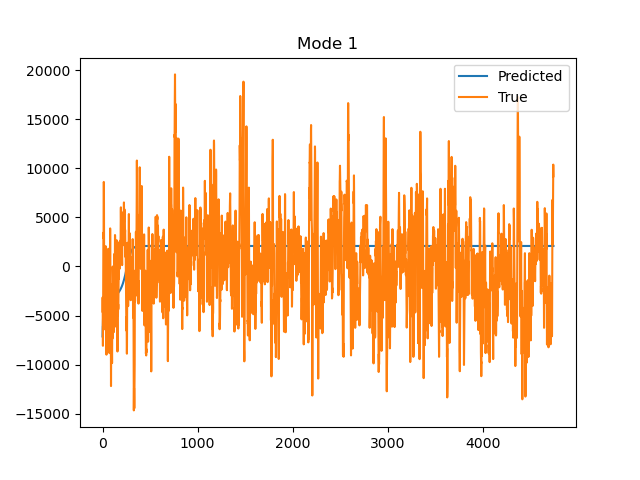
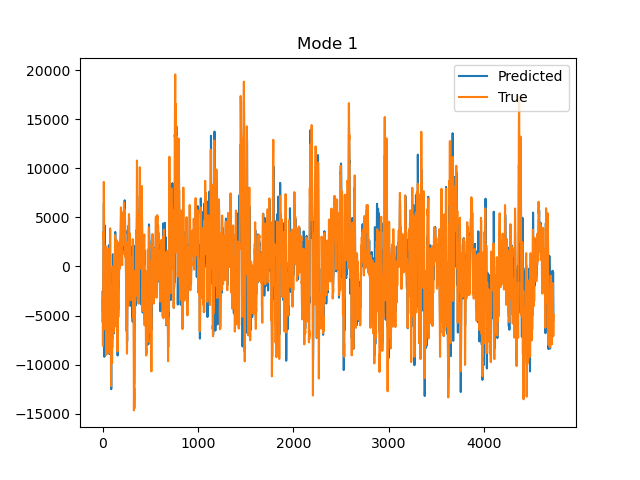
Added non autoregressive version of code

diff --git a/Z500/lstm_archs.py b/Z500/lstm_archs.py
@@ -38,15 +38,16 @@ class standard_lstm(Model):
 
         # Need to make minibatches
         self.seq_num = 7
-        self.total_size = np.shape(data)[0]-int(self.seq_num) # Limit of sampling
+        self.seq_num_op = 14
+        self.total_size = np.shape(data)[0]-int(self.seq_num_op)-int(self.seq_num) # Limit of sampling
 
         input_seq = np.zeros(shape=(self.total_size,self.seq_num,self.state_len))  #[samples,n_inputs,state_len]
-        output_seq = np.zeros(shape=(self.total_size,self.state_len)) #[samples,n_outputs,state_len]
+        output_seq = np.zeros(shape=(self.total_size,self.seq_num_op,self.state_len)) #[samples,n_outputs,state_len]
 
         snum = 0
         for t in range(0,self.total_size):
             input_seq[snum,:,:] = self.data[None,t:t+self.seq_num,:]
-            output_seq[snum,:] = self.data[None,t+self.seq_num,:]        
+            output_seq[snum,:] = self.data[None,t+self.seq_num:t+self.seq_num+self.seq_num_op,:]        
             snum = snum + 1
 
         # Shuffle dataset
@@ -74,16 +75,22 @@ class standard_lstm(Model):
         # Define architecture
         xavier=tf.keras.initializers.GlorotUniform()
         self.l1=tf.keras.layers.LSTM(50,return_sequences=True,input_shape=(self.seq_num,self.state_len))
-        self.l2=tf.keras.layers.LSTM(50,return_sequences=False)
+        # self.l1_transpose = tf.transpose(perm=[0,2,1])
+        self.l1_transform = tf.keras.layers.Dense(self.seq_num_op)
+        # self.l2_transpose = tf.transpose(perm=[0,2,1])
+        self.l2=tf.keras.layers.LSTM(50,return_sequences=True)
         self.out = tf.keras.layers.Dense(self.state_len)
         self.train_op = tf.keras.optimizers.Adam(learning_rate=0.001)
 
-    
+
     # Running the model
     def call(self,X):
         h1 = self.l1(X)
-        h2 = self.l2(h1)
-        out = self.out(h2)
+        h2 = tf.transpose(h1,perm=[0,2,1])
+        h3 = self.l1_transform(h2)
+        h4 = tf.transpose(h3,perm=[0,2,1])
+        h5 = self.l2(h4)
+        out = self.out(h5)
         return out
     
     # Regular MSE
@@ -115,7 +122,7 @@ class standard_lstm(Model):
         self.train_batch_size = int(self.ntrain/self.num_batches)
         self.valid_batch_size = int((self.nvalid)/self.num_batches)
         
-        for i in range(100):
+        for i in range(200):
             # Training loss
             print('Training iteration:',i)
             
@@ -169,19 +176,33 @@ class standard_lstm(Model):
     def restore_model(self):
         self.load_weights(dir_path+'/checkpoints/my_checkpoint') # Load pretrained model
 
-    def regular_inference(self,rec_input_seq,rec_pred):
-        # Regular predict
-        for t in range(rec_pred.shape[0]):
-            rec_pred[t] = self.call(rec_input_seq).numpy()[0]
-            rec_input_seq[0,0:-1] = rec_input_seq[0,1:]
-            rec_input_seq[0,-1] = rec_pred[t]
+    def regular_inference(self,test_data):
+        # Test data has to be scaled already
+        test_total_size = np.shape(test_data)[0]-int(self.seq_num_op)-int(self.seq_num) # Limit of sampling
+
+        # Non-recursive prediction
+        forecast_array = np.zeros(shape=(test_total_size,self.seq_num_op,self.state_len))
+        true_array = np.zeros(shape=(test_total_size,self.seq_num_op,self.state_len))
+
+        for t in range(test_total_size):
+            forecast_array[t] = self.call(test_data[t:t+self.seq_num].reshape(-1,self.seq_num,self.state_len))
+            true_array[t] = test_data[t+self.seq_num:t+self.seq_num+self.seq_num_op]
 
         # Rescale
-        rec_pred = self.preproc_pipeline.inverse_transform(rec_pred)
+        for lead_time in range(forecast_array.shape[1]):
+            forecast_array[:,lead_time,:] = self.preproc_pipeline.inverse_transform(forecast_array[:,lead_time,:])
+            true_array[:,lead_time,:] = self.preproc_pipeline.inverse_transform(true_array[:,lead_time,:])
 
-        return rec_pred
+        return forecast_array, true_array
 
-    def variational_inference(self,rec_input_seq,rec_pred):
+    def variational_inference(self,test_data):
+        # Test data has to be scaled already
+        test_total_size = np.shape(test_data)[0]-int(self.seq_num_op)-int(self.seq_num) # Limit of sampling
+
+        # Non-recursive prediction
+        forecast_array = np.zeros(shape=(test_total_size,self.seq_num_op,self.state_len))
+        true_array = np.zeros(shape=(test_total_size,self.seq_num_op,self.state_len))
+
         # Load mask
         test_fields = np.load('Testing_snapshots.npy').T
         train_fields = np.load('Training_snapshots.npy').T
@@ -208,15 +229,20 @@ class standard_lstm(Model):
 
         true_observations = test_fields[:,rand_idx]
 
+        # Non-recursive prediction
+        forecast_array = np.zeros(shape=(test_total_size,self.seq_num_op,self.state_len))
+        true_array = np.zeros(shape=(test_total_size,self.seq_num_op,self.state_len))
+
         # 3D-Variational update
-        for t in range(500):
+        for t in range(10):
 
             # Background vector - initial time window input
-            x_ti = self.preproc_pipeline.inverse_transform(rec_input_seq[0,:].reshape(self.seq_num,-1))
+            x_input = test_data[t:t+self.seq_num].reshape(self.seq_num,self.state_len)
+            x_ti = self.preproc_pipeline.inverse_transform(x_input)
             x_ti_rec = np.matmul(pod_modes,x_ti.T)#[:,0:1]
 
             # Observation
-            y_ = true_observations[t+self.seq_num]
+            y_ = true_observations[t+self.seq_num:t+self.seq_num+self.seq_num_op]
 
             # Perform optimization assuming identity covariances
             # Define residual
@@ -228,11 +254,11 @@ class standard_lstm(Model):
 
                 # Likelihood
                 x = x.reshape(1,self.seq_num,-1)
-                x_tf = self.preproc_pipeline.inverse_transform(self.call(x).numpy()[0].reshape(1,-1))
+                x_tf = self.preproc_pipeline.inverse_transform(self.call(x).numpy()[0].reshape(self.seq_num_op,-1))
                 x_tf_rec = np.matmul(pod_modes,x_tf.T)
 
                 # Sensor predictions
-                h_ = x_tf_rec[rand_idx,0]
+                h_ = x_tf_rec[rand_idx,:].T
 
                 # J
                 pred = (np.sum(0.5*(x_star_rec - x_ti_rec)**2)) + (np.sum(0.5*(y_-h_)**2))
@@ -261,16 +287,18 @@ class standard_lstm(Model):
 
                     x = tf.reshape(x,shape=[1,self.seq_num,-1])
 
-                    op = self.call(x)
+                    op = self.call(x)[0]
+
                     op = (op+1)/2.0*(minmax_scaler.data_max_- minmax_scaler.data_min_) + minmax_scaler.data_min_
                     op = (op)*std_scaler.scale_ + std_scaler.mean_
                     op = tf.cast(op,dtype='float64')
 
-                    x_tf_rec = tf.matmul(tf_pod_modes,tf.transpose(op))[:,0]
+                    x_tf_rec = tf.matmul(tf_pod_modes,tf.transpose(op))
+
 
                     # Sensor predictions
                     tf_idx = tf.convert_to_tensor(rand_idx,dtype='int32')
-                    h_ = tf.gather(x_tf_rec,tf_idx)
+                    h_ = tf.transpose(tf.gather(x_tf_rec,tf_idx))
 
                     # J
                     pred = (tf.math.reduce_sum(0.5*(tf_x_star_rec - tf_x_ti_rec)**2)) + \
@@ -282,34 +310,36 @@ class standard_lstm(Model):
                  
                 return grad
 
-            solution = minimize(residual,rec_input_seq[0].flatten(), jac=residual_gradient, method='SLSQP',
-                tol=1e-8,options={'disp': True, 'maxiter': 100, 'eps': 1.4901161193847656e-8})
+            solution = minimize(residual,x_input.flatten(), jac=residual_gradient, method='SLSQP',
+                tol=1e-8,options={'disp': True, 'maxiter': 200, 'eps': 1.4901161193847656e-8})
 
-            old_of = residual(rec_input_seq[0].flatten())
+            old_of = residual(x_input.flatten())
             new_of = residual(solution.x)
 
             print('Initial guess residual:',old_of, ', Final guess residual:',new_of)
 
             if new_of< old_of:
+                
                 assimilated_rec_input_seq = solution.x.reshape(1,self.seq_num,-1)
-                rec_pred[t] = self.call(assimilated_rec_input_seq).numpy()[0].reshape(1,-1)
+                forecast_array[t] = self.call(assimilated_rec_input_seq).numpy()[0]
 
-                rec_input_seq[0,0:-1,:] = assimilated_rec_input_seq[0,1:,:]
-                rec_input_seq[0,-1,:] = rec_pred[t]
             else:
 
                 print('Optimization failed. Initial guess residual:',old_of, ', Final guess residual:',new_of)
 
-                rec_pred[t] = self.call(rec_input_seq).numpy()[0].reshape(1,-1)
-
-                rec_input_seq[0,0:-1,:] = rec_input_seq[0,1:,:]
-                rec_input_seq[0,-1,:] = rec_pred[t]
-
+                x_input = x_input.reshape(1,self.seq_num,-1)
+                forecast_array[t] = self.call(x_input).numpy()[0]
+            
+            true_array[t] = test_data[t+self.seq_num:t+self.seq_num+self.seq_num_op]
+            
             print('Finished variational prediction for timestep: ',t)
 
-        rec_pred = self.preproc_pipeline.inverse_transform(rec_pred)
+        # Rescale
+        for lead_time in range(forecast_array.shape[1]):
+            forecast_array[:,lead_time,:] = self.preproc_pipeline.inverse_transform(forecast_array[:,lead_time,:])
+            true_array[:,lead_time,:] = self.preproc_pipeline.inverse_transform(true_array[:,lead_time,:])
 
-        return rec_pred
+        return forecast_array, true_array
 
     # Do some testing
     def model_inference(self,test_data):
@@ -319,48 +349,30 @@ class standard_lstm(Model):
         # Scale testing data
         test_data = self.preproc_pipeline.transform(test_data)
 
-        # Test sizes
-        test_total_size = np.shape(test_data)[0]-int(self.seq_num) # Limit of sampling
-
-        # Initial condition setup
-        rec_input_seq = test_data[:self.seq_num,:].reshape(1,self.seq_num,self.state_len)
-        
-        # True outputs
-        rec_output_seq = np.zeros(shape=(test_total_size,self.state_len)) #[samples,n_outputs,state_len]
-        snum = 0
-        for t in range(test_total_size):
-            rec_output_seq[snum,:] = test_data[None,t+self.seq_num,:]        
-            snum = snum + 1
-
-        # Prediction recursively
-        rec_pred = np.copy(rec_output_seq)
-
         if self.var:
-            rec_pred = self.variational_inference(rec_input_seq,rec_pred)
+            forecast, truth = self.variational_inference(test_data)
         else:
-            rec_pred = self.regular_inference(rec_input_seq,rec_pred)
-
-        rec_output_seq = self.preproc_pipeline.inverse_transform(rec_output_seq)
+            forecast, truth  = self.regular_inference(test_data)
 
         if self.var:
             folder_name = './Var/'
         else:
             folder_name = './Regular/'
 
-        np.save(folder_name+'True.npy',rec_output_seq)
-        np.save(folder_name+'Predicted.npy',rec_pred)
+        np.save(folder_name+'True.npy',truth)
+        np.save(folder_name+'Predicted.npy',forecast)
 
         # plot
         for i in range(self.state_len):
             plt.figure()
             plt.title('Mode '+str(i))
-            plt.plot(rec_pred[:,i],label='Predicted')
-            plt.plot(rec_output_seq[:,i],label='True')
+            plt.plot(forecast[:,-1,i],label='Predicted')
+            plt.plot(truth[:,-1,i],label='True')
             plt.legend()
             plt.savefig(folder_name+'Mode '+str(i)+'.png')
             plt.close()
 
-        return rec_output_seq, rec_pred
+        return truth, forecast
 
 
 if __name__ == '__main__':
